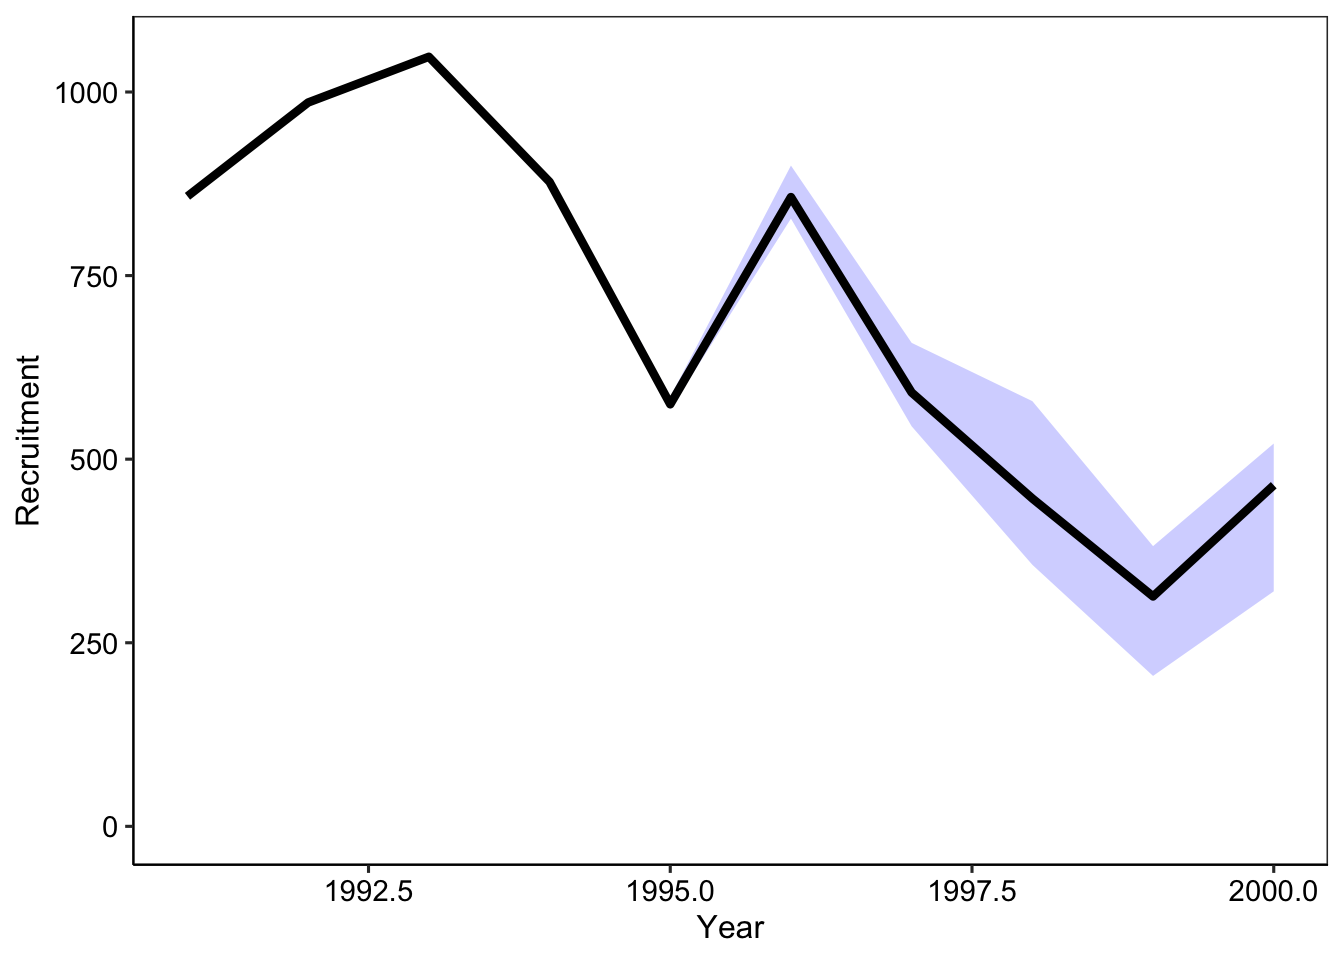
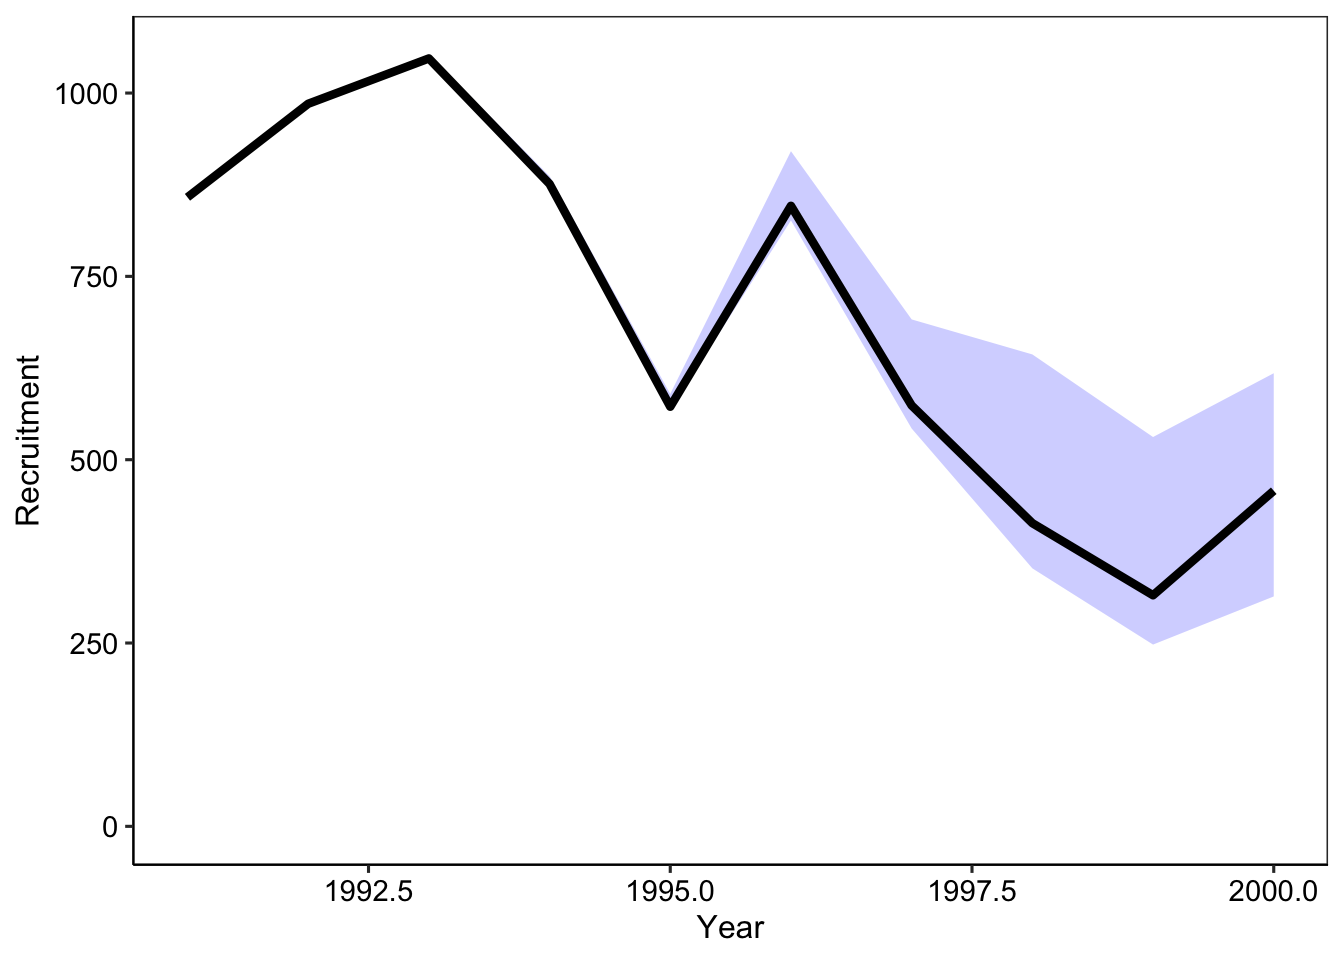
Built site for frasyr: 2.1.0.0@cc749a9

diff --git a/articles/Diagnostics-for-VPA.html b/articles/Diagnostics-for-VPA.html
@@ -78,7 +78,7 @@
       <h1 data-toc-skip>VPAモデル診断スクリプト</h1>
                         <h4 class="author">Kohei Hamabe &amp; Momoko Ichinokawa</h4>
             
-            <h4 class="date">2020-07-08</h4>
+            <h4 class="date">2020-07-10</h4>
       
       
       <div class="hidden name"><code>Diagnostics-for-VPA.Rmd</code></div>
@@ -431,7 +431,7 @@
 <div class="sourceCode" id="cb24"><pre class="downlit">
 <span class="kw">res_vpa_jitter</span> <span class="op">&lt;-</span> <span class="fu"><a href="../reference/do_estcheck_vpa.html">do_estcheck_vpa</a></span>(<span class="kw">res_vpa_estb</span>, n_ite=<span class="fl">10</span>)
 </pre></div>
-<pre><code>Maximum likelihood in jitter analysis is:  23.36542 
+<pre><code>Maximum likelihood in jitter analysis is:  18.91587 
 Likelihood with estimated parameters is:  23.60018 </code></pre>
 <p>最初に引数で与えたVPA結果について、</p>
 <ul>
@@ -573,7 +573,7 @@ Likelihood with estimated parameters is:  23.60018 </code></pre>
 <span class="fu"><a href="https://rdrr.io/r/stats/quantile.html">quantile</a></span>(<span class="kw">res_tmp</span>, probs = <span class="fu"><a href="https://rdrr.io/r/base/c.html">c</a></span>(<span class="fl">0.025</span>,<span class="fl">0.5</span>,<span class="fl">0.975</span>))
 </pre></div>
 <pre><code>     2.5%       50%     97.5% 
-0.4928330 0.7221846 1.6364467 </code></pre>
+0.4328986 0.8522319 5.1582420 </code></pre>
 <p>この他、各パラメータの相関関係について、ブートストラップ標本を基にプロットが得られます。</p>
 <div class="sourceCode" id="cb40"><pre class="downlit">
 <span class="kw">res_vpa_bootstrap</span><span class="op">$</span><span class="kw">plot_cor</span>

diff --git a/articles/vpa.html b/articles/vpa.html
@@ -78,7 +78,7 @@
       <h1 data-toc-skip>VPA関数を使った資源量推定</h1>
                         <h4 class="author">市野川桃子</h4>
             
-            <h4 class="date">2020-07-08</h4>
+            <h4 class="date">2020-07-10</h4>
       
       
       <div class="hidden name"><code>vpa.Rmd</code></div>
